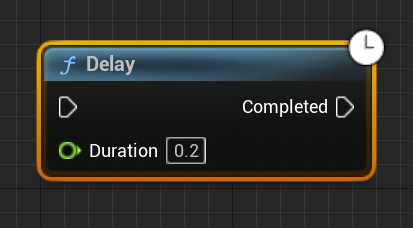
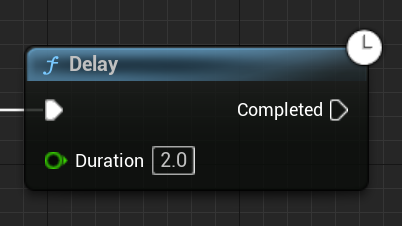
A3 (#3)
* Initial add of a3

* 3-1

* Working

* 3 ready

Changed region(s): [[0.0, 0.1239, 0.9552, 0.8673]]

diff --git a/03-02.md b/03-02.md
@@ -1,0 +1,148 @@
+---
+title: PuzzleComponent in C++
+parent: Assignment 3
+grand_parent: Assignments
+has_children: false
+nav_order: 2
+---
+
+# PuzzleComponent in C++
+
+To this point, we've created all the actors for puzzles in Blueprint. This is fine for basic logic, but more complex logic is difficult to build out in Blueprint. So, we're going to make an `APuzzleRotate` actor which has a `TArray` of multiple actors with puzzle components and periodically rotates which one has its `OutActor` connected to `APuzzleRotate`.
+
+## Creating PuzzleRotate
+
+Add a new C++ class that inherits from Actor called `PuzzleRotate`.
+
+By default, Actors don't have a `RootComponent` and thus can't be placed in a level. So first, we need to add a root component. We'll use a `UBillboardComponent` so that we have a sprite we can click on in editor (it won't show up in game). To do this, add the following to the constructor for `APuzzleRotate`:
+
+```c++
+RootComponent = CreateDefaultSubobject<UBillboardComponent>("Root");
+```
+
+You will have to include `"Components/BillboardComponent.h"` for this to compile.
+
+{: .note}
+The `CreateDefaultSubobject` function is how you construct a component for the CDO specifically in the constructor of an actor. It will ***NOT*** work if you want to dynamically add a component at runtime. The template parameter is the type of component you want to construct, and the name is just a friendly name that it'll show in editor (though make sure you don't give multiple components in the same Actor the same name or it may end up in disaster).
+
+Then, declare the following variable in the `protected` section, which will be this `PuzzleRotate`'s puzzle component:
+
+```c++
+// Our PuzzleComponent
+UPROPERTY(VisibleAnywhere, BlueprintReadOnly)
+TObjectPtr<class UPuzzleComponent> PuzzleComponent;
+```
+
+Next, declare the following variable in the `public` section, which will be the list of input actors:
+
+```c++
+// The input actors with puzzle components which we want to rotate between
+UPROPERTY(EditInstanceOnly)
+TArray<TSoftObjectPtr<class AActor>> InputActors;
+```
+
+Finally, you need to use `CreateDefaultSubobject` to create the `UPuzzleComponent` in the constructor. In this case, you want to assign the result of `CreateDefaultSubobject` to `PuzzleComponent` and the name should be `"Puzzle"`. You will need to `#include "PuzzleComponent.h"`.
+
+Make sure this code compiles, and then go into editor and make a blueprint called `PuzzleRotate_BP` that inherits from `PuzzleRotate` and save it. Confirm that in the blueprint's list of components you see both the billboard component and the puzzle component.
+
+{: .note }
+You almost always should make a blueprint subclass for your C++ actors, just in case there's anything you want designers/artists to be able to tweak. It's a lot easier if you make the BP from the start so people place that instead of the C++ version. If you want to really enforce this you could mark the `UCLASS` as `Abstract` so the editor doesn't let you place the C++ version in the level.
+
+## Hooking up to OnReceiveInput
+
+So far we've been using the `OnReceiveInput` delegate from Blueprint. However, it's also possible to register to dynamic delegates in C++ code, though the syntax is particular.
+
+First, you need a native function that matches the parameters the delegate is expecting. This also needs to be marked as a `UFUNCTION`, though you don't need any specifiers. Add this declaration to PuzzleRotate.h:
+
+```c++
+UFUNCTION()
+void OnReceiveInput(class AActor* InputActor, bool bValue);
+```
+
+Then add a stub implementation of this `OnReceiveInput` function into PuzzleRotate.cpp.
+
+You register this function to the delegate in `BeginPlay`. To do this, you have to use the `AddDynamic` macro. For this case, it should look like this:
+
+```c++
+PuzzleComponent->OnReceiveInput.AddDynamic(this, &APuzzleRotate::OnReceiveInput);
+```
+
+{: .danger }
+Although tempting, you should never register a delegate in the constructor. Remember the constructor is only called on the CDO. This means that if you register the delegate for the CDO, every instance will actually execute the registered function on the CDO instead of on itself. Best case, this will just not work, but more than likely this will cause a 100% reproducible crash.
+
+In the implementation of `OnReceiveInput`, for now, just call `SetOutputActive` on the `PuzzleComponent` passing in `bValue`. (This is something which could've been done in Blueprint, but this is just showing how you can do the same in C++).
+
+## Updating the Output Actor
+
+The premise of `PuzzleRotate` is that `InputActors` has a list of all the actors which are affected by the `PuzzleRotate`. Periodically, one of the `InputActors` will have its Puzzle Component `OutputActor` set to `PuzzleRotate`, and it will rotate through all of them.
+
+When it starts out, the `OutputActor` of all the `InputActor`'s puzzle components are set to `nullptr`. Then, every second, `PuzzleRotate` will change one of the `InputActor`'s `OutputActor`, setting the others to `nullptr`.
+
+For example, suppose there are 3 actors with puzzle components in the `InputActors` array. The logic would be:
+
+1. On `BeginPlay`, all three actors in `InputActors` have their puzzle component`OutputActor` set to `nullptr`
+2. After 1 second, the Input Actor at index 0 has its `OutputActor` set to the `PuzzleRotate`
+3. After 1 more second, the Input Actor at index 1 has its `OutputActor` set to the `PuzzleRotate` while the one at index 0 goes back to `nullptr`
+4. After 1 more second, the Input Actor at index 2 has its `OutputActor` set to the `PuzzleRotate` while the one at index 1 goes back to `nullptr`
+5. After 1 more second, the Input Actor at index 0 has its `OutputActor` set to the `PuzzleRotate` while the one at index 2 goes back to `nullptr` (i.e. it wraps around)
+
+In order to implement this logic, you will first need to add a new public function to `UPuzzleComponent` that's `BlueprintCallable` called `ChangeOutputActor` that returns `void` and takes in an `AActor*` for the new output actor. In this function:
+
+1. Set `OutputActor` to the passed-in one
+2. If `OutputActor` is not null and `bIsOutputActive` is currently `true`,  `NativeReceiveInput` just like how you do in `UPuzzleComponent::SetOutputActive`
+
+Next, in `APuzzleRotate::BeginPlay`, loop over` InputActor`s, calling `ChangeOutputActor(nullptr)` on each input actor's `UPuzzleComponent`.
+
+## Repeating Function
+
+To implement the function which repeats every second, we are going to use [Gameplay Timers](https://docs.unrealengine.com/5.0/en-US/gameplay-timers-in-unreal-engine/) which allow you to register an arbitrary C++ function to execute after an amount of game time elapses. We can also make the timer repeat, as we will in this case.
+
+First, add a new function (not a `UFUNCTION`) to `APuzzleRotate` called `OnRotateTimer` that returns `void` and takes no parameters, and create a stub implementation.
+
+Next, add the following `protected` members to `APuzzleRotate`:
+
+```c++
+// Duration of the timer
+UPROPERTY(EditAnywhere)
+float TimerDuration = 1.0f;
+
+// Handle to manage the timer
+FTimerHandle TimerHandle;
+```
+
+To register the timer, add the following line to `APuzzleRotate::BeginPlay`:
+
+```c++
+GetWorldTimerManager().SetTimer(TimerHandle, this, &APuzzleRotate::OnRotateTimer, TimerDuration, true);
+```
+
+Most of the parameters are self-explanatory, but the last bool is whether or not the timer should loop (repeat).
+
+To confirm this works, compile and run the game. Place an instance of `PuzzleRotate_BP` in the game level (away from the other puzzles). Put a breakpoint on `OnRotateTimer` to confirm it gets hit after a second. If you click continue in Visual Studio, the breakpoint should get hit again after another second.
+
+## Implementing OnRotateTimer
+
+To track which input actor should be updated, you need to add an int variable that keeps track of the current index, initialized to 0 (don't make it a `UPROPERTY`).
+
+Then, on every call of `OnRotateTimer`:
+
+1. Call `PuzzleReset` on the `APuzzleRotate`'s puzzle component
+2. Call `ChangeOutputActor(nullptr)` on every `InputActor`
+3. Call `ChangeOutputActor(this)` on the `InputActor` corresponding to the current index
+4. Increment the current index, wrapping around back to 0 as needed
+
+{: .warn}
+To prevent a potential crash, make sure you also make it so that `OnRotateTimer` does nothing if `InputActors` is empty. Remember that `TArray` has a `Num()` member function to get the number of elements in it.
+
+### Testing it Out
+
+To test out if this all works, add three basic `PuzzleFloorSwitch_BP` instances to the level near to your `PuzzleRotate_BP` instance. Each `PuzzleFloorSwitch_BP` should have its `OutputActor` unset. Then, in the `PuzzleRotate_BP` instance set the `InputActors` array to contain each of the three `PuzzleFloorSwitch_BP`s.
+
+Finally, add a `PuzzleLight_BP` that's set as the `OutputActor` of the `PuzzleRotate_BP` instance, and add a `TextActor` that says `"Rotate"`.
+
+If everything works, you should notice that the inputs rotate and if you're standing on a switch when it's the current one in the rotation, the light turns on. It should look like this:
+
+![PuzzleRotate in action](images/03/rotate.gif)
+
+The last (very short) part is to improve the [debug visualization](03-03.html).
+

diff --git a/03-01.md b/03-01.md
@@ -1,0 +1,83 @@
+---
+title: Improving Interact
+parent: Assignment 3
+grand_parent: Assignments
+has_children: false
+nav_order: 1
+---
+
+# Improving Interact
+
+In this part of the assignment, you're going to significantly improve the interact functionality.
+
+You will have to add new C++ functions and/or variables as appropriate to implement behaviors, as well as a handful of blueprint changes.
+
+## Interact Glow
+
+To make it more clear which object is the current "best candidate," add in a white glow effect for interactable objects. By default you can assume that the material parameter name is `"InteractGlow"` but give the option to change the parameter name in the interact component.
+
+You should implement the behavior to set the material parameter value in a C++ function within `UInteractComponent` so that `UInteractSusbsytem::Tick` can enable/disable glow on the appropriate components. In the function in `UInteractComponent`, you can use `FindComponentByClass` to see if the actor has a `UStaticMeshComponent` and, if it does, call `SetVectorParameterValueOnMaterials` on the static mesh to set the `"InteractGlow"` parameter.
+
+You will have to modify the lamp material (`M_Lamp`) to get the glow to work on the existing `TorchInteract_BP` objects. To do this, can just take the current Multiply node that is routed to emissive color and use an Add node to add the `"InteractGlow"` parameter to it (it'll make it look really white but that's ok for testing). The idea is that `"InteractGlow"` would default to `(0, 0, 0)` but then you can set it to `(1, 1, 1)` when you want to make the torch glow.
+
+{:.test}
+Confirm that the current best candidate is glowing (and it changes as appropriate): <img src="images/03/1.png" alt="Best candidate glow" style="zoom:67%;" />
+
+## Interact Hint
+
+Add a hint text that is centered on the best candidate. The text should say something along the lines of `"[E] - Interact"` to your HUD (you can just use an `FString` even though for a real game we'd want this to be localizable). The simplest way to do this is just in `DrawHUD`, check if the `UInteractSubsystem` has a best candidate (you'll need to add a getter or make the variable `public`) and if it does, draw the hint text over it. You can use a `nullptr` font with a scale of `3.0f`.
+
+*Hint*: There's a `Project` function you can use to get a screen space position. To center the text, you'll have to take advantage of `GetTextSize`.
+
+{:.test}
+You should now have an interact hint like this: <img src="images/03/2.png" alt="Interact hint" style="zoom:67%;" />
+
+## Improving Best Candidate Selection
+
+Change the best candidate selection code so that it only picks a candidate that's "roughly" in front of the player and also within 200 units of the player (it's okay if you hardcode this number, though for a real game we wouldn't do that). If there are multiple candidates that satisfy this criteria, you should pick the one that's closest to being directly in front of the player (eg. don't just pick the shortest distance).
+
+*Hint*: `FVector` has the typical functions you might expect. For example, there is a static `FVector::DotProduct` function and a member function called `Normalize`. Also, you can use `GetActorForwardVector()` to get the forward vector of the player character.
+
+{: .note }
+In Unreal, the default units is centimeters. So, 200 units is 200cm or 2m.
+
+## Example of Behavior
+
+To demonstrate these improvements to interacting, add a puzzle component to TorchInteract_BP whose output is active when the torch is on. Then place two torches near each other (so you can show how the candidate changes depending on your facing). Make it so a PuzzleLight only turns on when both torches are in their "on" state. Add a text render actor near these that says "Interact".
+
+Here's an example of what's expected:
+
+![Selecting best candidate improved](images/03/interact.gif)
+
+## Being Able to Enable/Disable Interaction
+
+Right now if something has an `UInteractComponent`, it's always enabled. Add a `bool` in C++ that's `BlueprintReadWrite` which says whether the interaction is enabled (it should default to true). If the interaction is disabled, the system should never select it as the "best candidate" and any calls to `NativeInteract` should do nothing.
+
+To demonstrate this, duplicate (don't inherit) `TorchInteract_BP` into a new `TimedTorchInteract_BP` and edit its "On Interact" blueprint script to add the following logic after the logic that turns on the particle system/puzzle output:
+
+1. Disable interact on the interact component
+2. Delay for 2 seconds using a "Delay" node (see below)
+3. Reenable interact, turn off the particle system, set the puzzle output to not active, and set IsTurnedOn to false
+
+To setup the "after 2 seconds" behavior, you can use a "Delay" node in the Blueprint, which will only execute the "Completed" pin after the duration passes:
+
+![Delay latent action node](images/03/delay.png)
+
+{: .note }
+The Delay node is what's called a "latent action" node in Blueprint (denoted by the clock in the top right corner). We'll discuss how these nodes work internally in a future lecture.
+
+Next, add a Puzzle Component to `TimedTorchInteract_BP` whose output gets set to active when the torch is on, and inactive when the torch is off.
+
+Hook up a `TimedTorchInteract_BP` to a `PuzzleLight` to demonstrate this behavior. Add a text render actor that says "Timed" near it.
+
+![Timed torch in action](images/03/timed.gif)
+
+## Adding Audio
+
+We have a fire sound effect, so let's make the torches make the fire sound when they're on. To do this, add an "Audio Component" to both torch BPs. Use the `Fire01` (***NOT*** `Fire01_Cue`) looping sound that we imported from the starter content. Make sure the component isn't auto activated and set it active/inactive in the blueprint like we did with the particle system component.
+
+{:.test}
+You should now hear a fire sound effect when the torch is on.
+
+Now that the interact system has been improved significantly, it's time to implement [an actor using `UPuzzleComponent` in C++](03-02.html)!
+

diff --git a/03-04.md b/03-04.md
@@ -1,0 +1,38 @@
+---
+title: Submission Requirements
+parent: Assignment 3
+grand_parent: Assignments
+has_children: false
+nav_order: 4
+---
+
+# Submission Requirements
+
+For this assignment, put your files in the `03` folder on your Google Drive. You need to submit the following:
+
+1. One or more videos that demonstrate the following (make sure you still have the watermark):
+   1. The interact glow and hint
+   2. The improved best candidate selection works (specifically, something isn't selected if too far away, and if the player isn't facing something it's not selected)
+   3. Demonstrate the `TimedTorchInteract_BP`
+   4. Toggle on/off the debug visualization console command
+   5. The PuzzleRotate functionality working as in the demonstration GIF
+   
+2. PuzzleRotate.h/cpp
+3. InteractSubsystem.h/cpp
+4. InteractComponent.h/cpp
+5. TopDownHUD.cpp
+6. PuzzleComponent.cpp
+
+## Grading Specification
+
+To receive a grade of B, you must have the following:
+
+1. Interact glow and hint are implemented
+2. Improved best candidate selection only allows you to pick interact objects that are close enough and in front of the player
+3. Enabling/disabling interact is implemented and `TimedTorchInteract_BP` works
+4. `APuzzleRotate` code is setup as expected (this spec doesn't require the implementation of `OnRotateTimer`)
+5. `APuzzleRotate::OnRotateTimer` works to rotate between multiple `InputActors`
+7. Improved debug visualization and console command is implemented
+
+To get an A, you must satisfy the above as well as write quality code. Keep in mind that we will be looking for adherence to the [Unreal Coding Standard](https://docs.unrealengine.com/5.0/en-US/epic-cplusplus-coding-standard-for-unreal-engine/).
+

diff --git a/03-03.md b/03-03.md
@@ -1,0 +1,40 @@
+---
+title: Debug Visualization
+parent: Assignment 3
+grand_parent: Assignments
+has_children: false
+nav_order: 3
+---
+
+# Improving Debug Visualization
+
+First, in `UPuzzleComponent::DebugDrawOutput`, add a separate `if` that checks for `IsRegistered()`, regardless of whether or not the `OutputActor` is set. If this is true, add a call to `DrawDebugString` that draws the owner's name at its actor location. You can use `GetOwner()->GetName()` to get the name of the owner. You will also need to pass in `0.1f` as the duration.
+
+This will look something like this in game:
+
+![Puzzle debug text](images/03/debugtext.png)
+
+## Adding a Console Command
+
+Now we're going to add a console command to enable and disable this debug view (which we'll want disabled by default.
+
+There's a very simple way to add "automatic" console variables. Add the following code to the global scope of `TopDownHUD.cpp`:
+
+```c++
+static TAutoConsoleVariable<int32> CVarDebugPuzzles(
+	TEXT("DebugPuzzles"), // Console command
+	0, // Default value
+	TEXT("Turns puzzle debug view on/off (off by default)"), // Help text
+	ECVF_Default); // Flags
+```
+
+Now in `DrawHUD`, only do the loop over all the puzzle components if `CVarDebugPuzzles.GetValueOnGameThread() != 0`.
+
+Now when you run, by default the debug visualization will be disabled.
+
+To enable the debug visualization, while you're running in editor, press the `~` key to bring up the console and type `DebugPuzzles 1` and press ENTER.
+
+Alternatively, in the editor you can click on the "Enter Console Command" input box at the bottom and enter the command that way.
+
+Once this is done, you're ready to [submit](03-04.html).
+

diff --git a/03.md b/03.md
@@ -1,0 +1,16 @@
+---
+title: Assignment 3
+parent: Assignments
+has_children: true
+nav_order: 4
+---
+
+# Assignment 3 - Interaction and More Puzzles
+
+Don't begin this assignment until you've gone through the Week 3 flipped classroom video, as you'll be building upon the Interact System and Component made in that video.
+
+In this assignment, you will:
+
+1. Make several improvements to the "interact" functionality
+2. Add a Puzzle Actor in C++
+3. Improve the debug visualization for the puzzle systems
